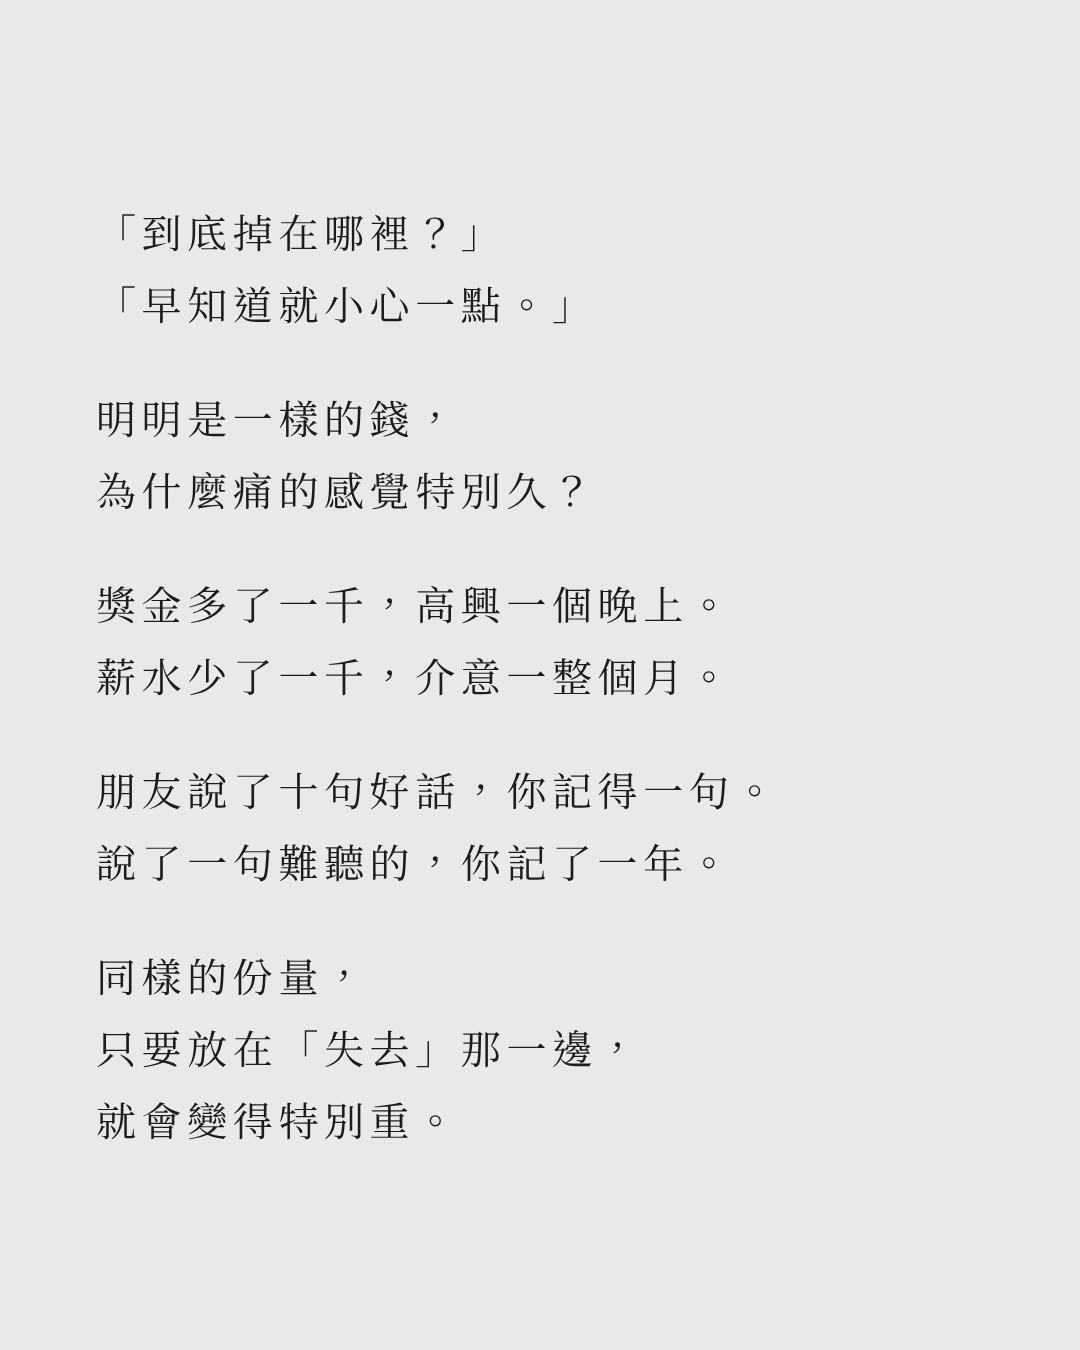
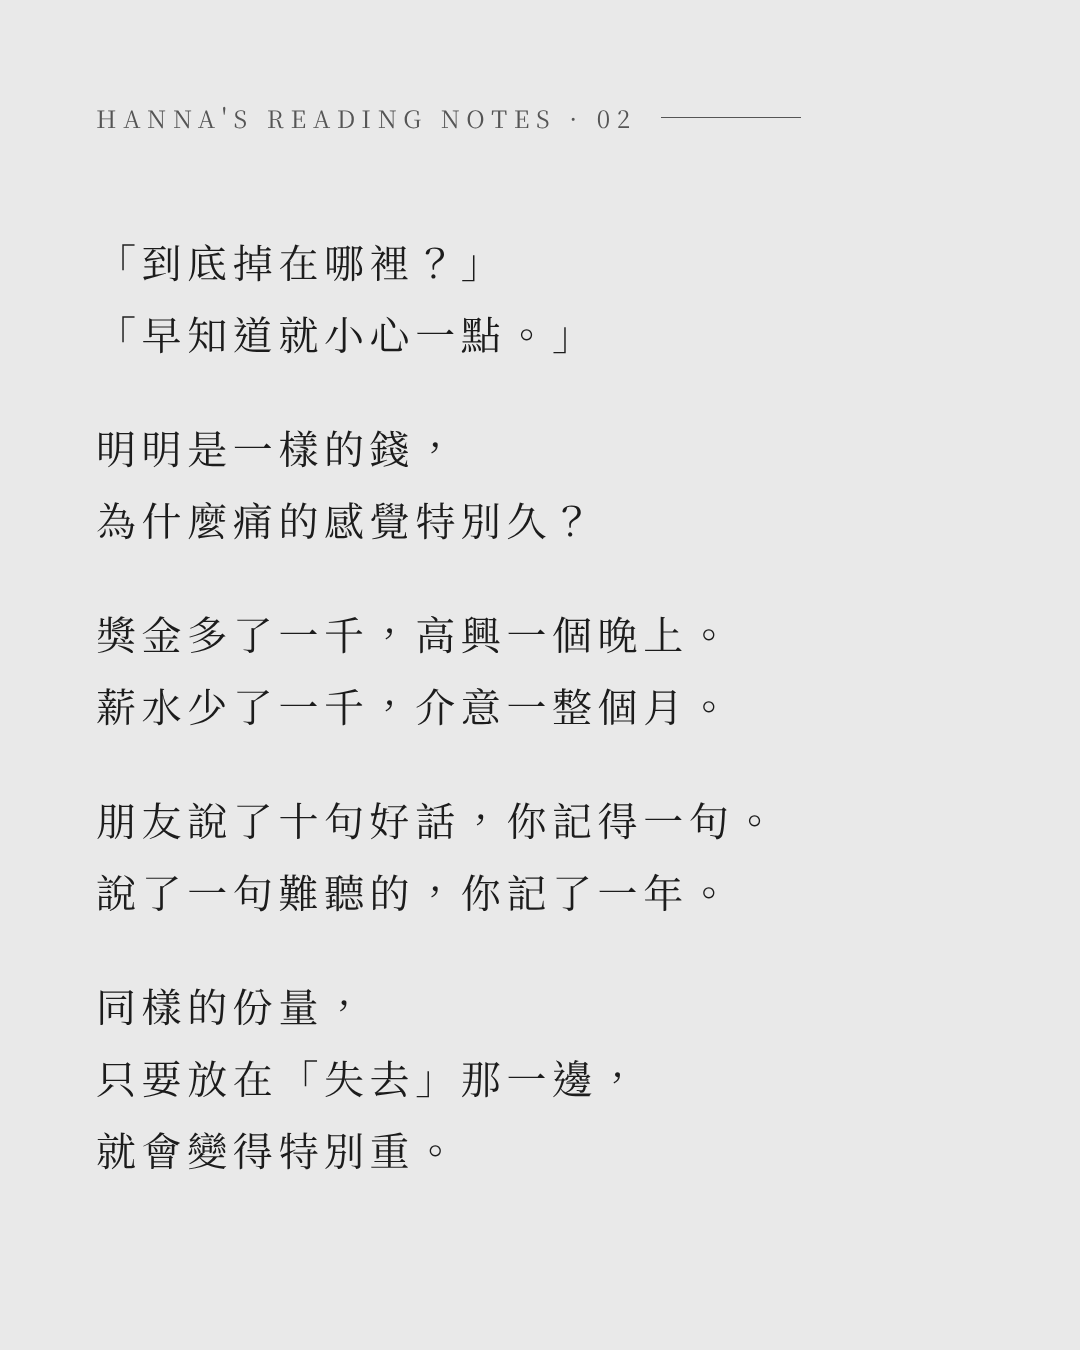
輪播貼文：封面移除人物名稱、每頁上方加入依序編號
Claude-Session: https://claude.ai/code/session_01AFjNkU8XspDCm6xvkskaQj

diff --git a/IP經營/輪播_損失厭惡/slides.html b/IP經營/輪播_損失厭惡/slides.html
@@ -11,7 +11,7 @@
     width: 1080px; height: 1350px; background: var(--bg);
     position: relative; overflow: hidden; margin: 0 0 20px;
     display: flex; flex-direction: column; justify-content: center;
-    padding: 120px 96px;
+    padding: 190px 96px 130px;
   }
   .series {
     position: absolute; top: 100px; left: 96px;
@@ -54,10 +54,8 @@
 <body>
 
 <section class="slide cover">
-  <div class="series">HANNA'S READING NOTES · 01</div>
   <h1>撿到一百元<br>開心一下<br>弄丟一百元<br>卻想了一整天</h1>
   <div class="person"></div>
-  <div class="who"><div class="en">Daniel Kahneman</div><div class="zh">諾貝爾經濟學獎得主｜心理學家</div></div>
   <div class="sign">Hanna</div>
 </section>
 
@@ -134,9 +132,16 @@
 
 <script>
   // 內容太長時自動縮小字級，確保每張都放得下
+  // 每一頁上方加上依序編號的系列標
+  document.querySelectorAll('.slide').forEach((slide, i) => {
+    const tag = document.createElement('div');
+    tag.className = 'series';
+    tag.textContent = "HANNA'S READING NOTES · " + String(i + 1).padStart(2, '0');
+    slide.prepend(tag);
+  });
   document.fonts.ready.then(() => {
     document.querySelectorAll('.slide .body').forEach(b => {
-      const slide = b.parentElement, max = slide.clientHeight - 200;
+      const slide = b.parentElement, max = slide.clientHeight - 320;
       let size = 40;
       while (b.scrollHeight > max && size > 30) { size -= 1; b.style.fontSize = size + 'px'; }
     });
